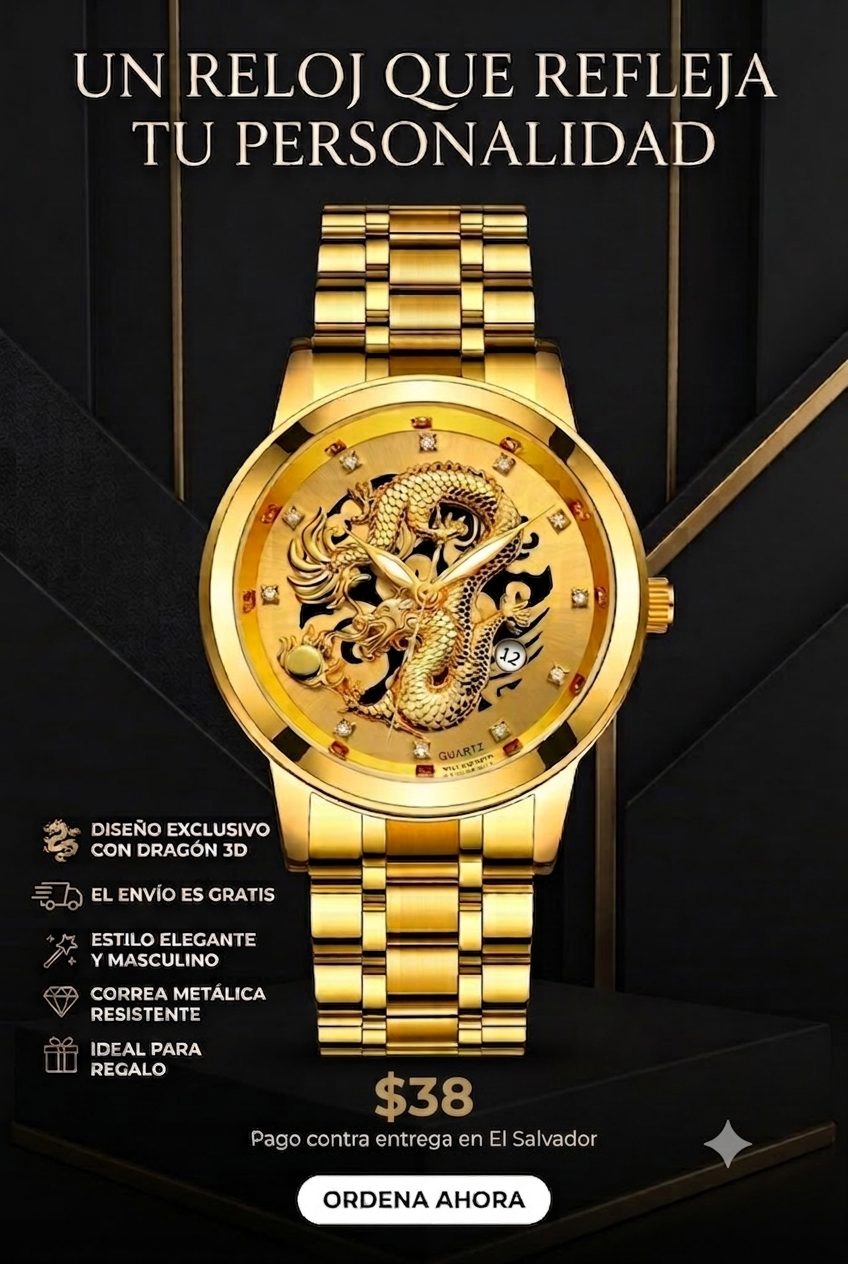
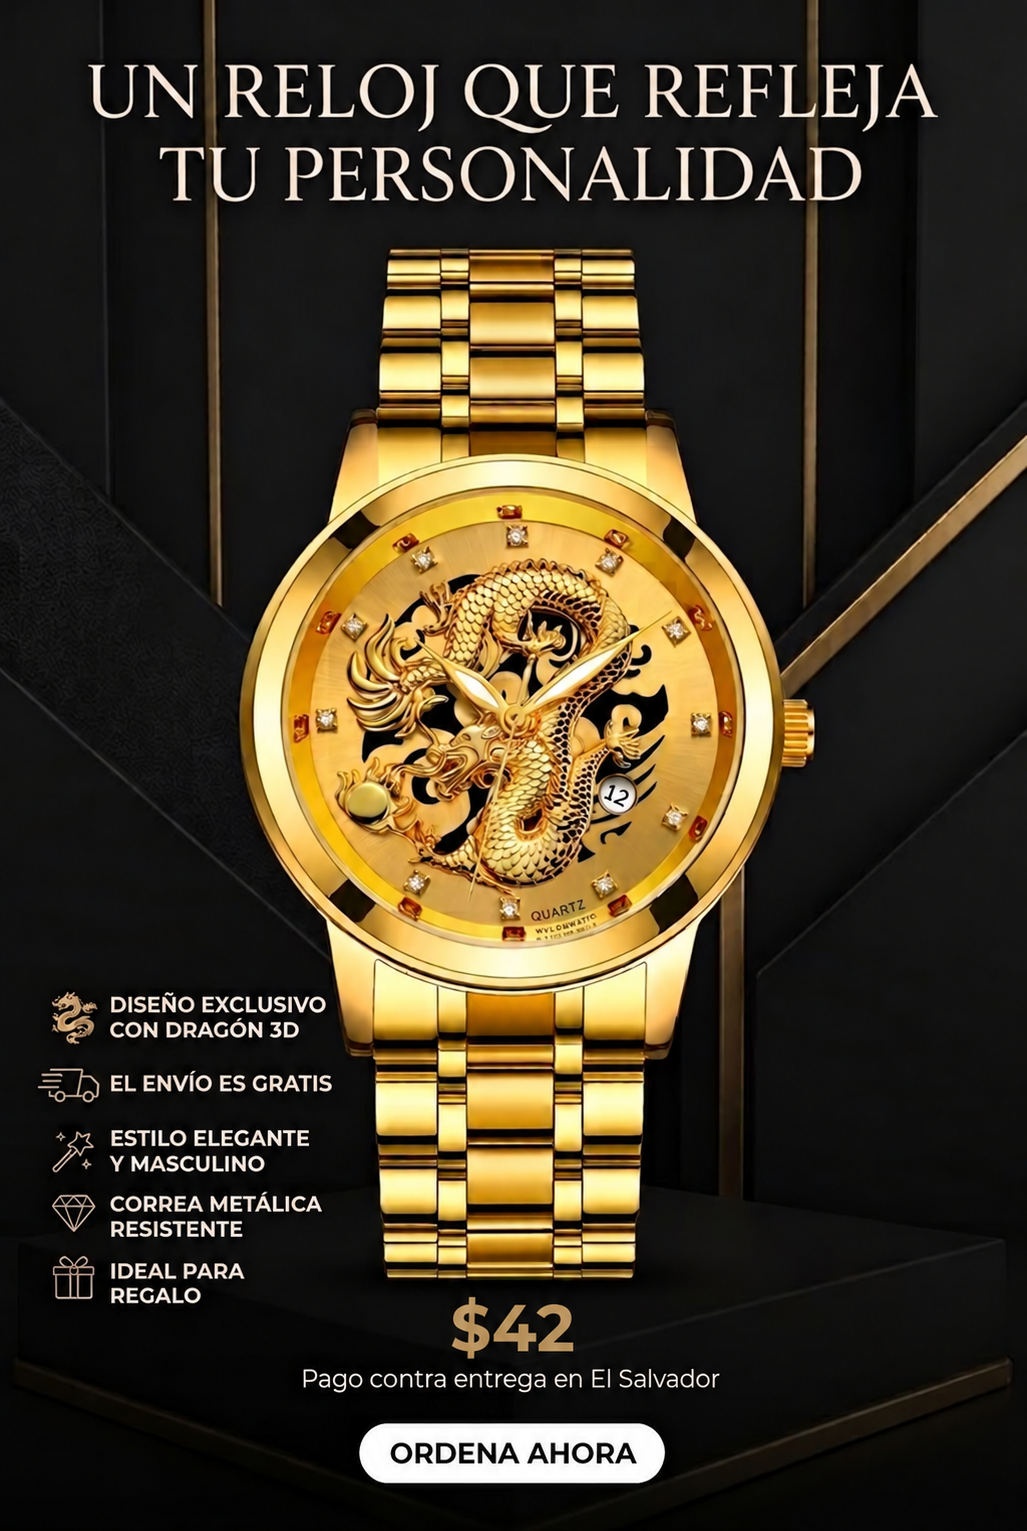
update price

diff --git a/index.html b/index.html
@@ -432,6 +432,23 @@
       text-decoration: none;
       text-transform: uppercase;
       box-shadow: 0 2px 10px rgba(255, 215, 0, 0.3);
+      animation: sticky-cta-pulse 1.8s ease-in-out infinite;
+      transform-origin: center;
+    }
+    @keyframes sticky-cta-pulse {
+      0%, 100% {
+        transform: scale(1);
+        box-shadow: 0 2px 10px rgba(255, 215, 0, 0.3);
+      }
+      50% {
+        transform: scale(1.05);
+        box-shadow: 0 4px 20px rgba(255, 215, 0, 0.6);
+      }
+    }
+    @media (prefers-reduced-motion: reduce) {
+      .sticky-btn {
+        animation: none;
+      }
     }
   </style>
 </head>
@@ -472,7 +489,7 @@
     <div class="price-card">
       <div class="price-left">
         <div class="old-price">Antes: $70</div>
-        <div class="current-price">$38</div>
+        <div class="current-price">$42</div>
       </div>
       <div class="price-right">
         <span class="tag-cod">🚚 Envío Gratis + COD</span>
@@ -528,7 +545,7 @@
         </div>
 
         <button type="submit" id="btnSubmit" class="btn-submit">
-          🛒 CONFIRMAR PEDIDO ($38)
+          🛒 CONFIRMAR PEDIDO ($42)
         </button>
       </form>
     </div>
@@ -538,7 +555,7 @@
 
     <!-- IMAGE 1: NEW EL SALVADOR PROMO IMAGE -->
     <div class="media-card">
-      <img src="Gemini_Generated_Image_gf10glgf10glgf10.png" alt="Reloj Elegante Dragón 3D - El Salvador $38">
+      <img src="Gemini_Generated_Image_gf10glgf10glgf10.png" alt="Reloj Elegante Dragón 3D - El Salvador $42">
     </div>
 
     <!-- VIDEO PLACEHOLDER SECTION -->
@@ -581,7 +598,7 @@
   <div class="sticky-bar">
     <div class="sticky-price">
       <span class="label">Precio Total:</span>
-      <span class="val">$38</span>
+      <span class="val">$42</span>
     </div>
     <a href="#order-form" class="sticky-btn">PEDIR AHORA 🛒</a>
   </div>
@@ -624,7 +641,7 @@ function handleFormSubmit(event) {
 
     pais: "El Salvador",
     producto: "Reloj Dragon 3D",
-    precio: 38,
+    precio: 42,
 
     // Facebook tracking
     source: params.get("utm_source") || "Facebook",
@@ -648,7 +665,7 @@ function handleFormSubmit(event) {
     if (typeof fbq === 'function') {
       fbq('track', 'Purchase', {
         content_name: 'Reloj Dragon 3D',
-        value: 38,
+        value: 42,
         currency: 'USD'
       });
     }
@@ -661,7 +678,7 @@ function handleFormSubmit(event) {
 
     btn.disabled = false;
     btn.style.pointerEvents = "auto";
-    btn.innerText = '🛒 CONFIRMAR PEDIDO ($38)';
+    btn.innerText = '🛒 CONFIRMAR PEDIDO ($42)';
 
 
     // Optional:
@@ -681,7 +698,7 @@ function handleFormSubmit(event) {
 
     btn.disabled = false;
     btn.style.pointerEvents = "auto";
-    btn.innerText = '🛒 CONFIRMAR PEDIDO ($38)';
+    btn.innerText = '🛒 CONFIRMAR PEDIDO ($42)';
 
   });
 
